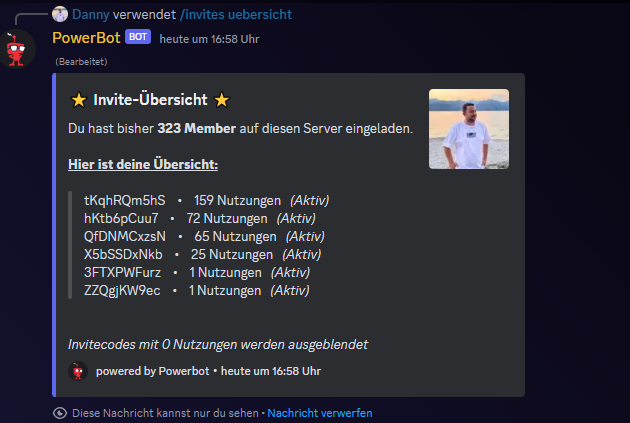
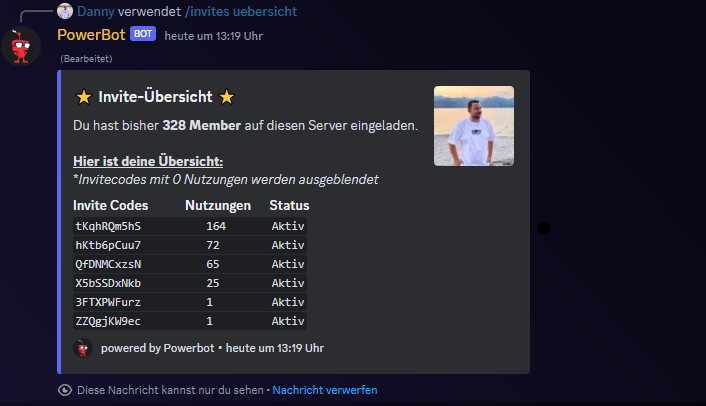
GITBOOK-34: No subject

Changed region(s): [[0.0603, 0.1478, 0.8444, 1.0], [0.0, 0.0, 0.4825, 0.1773]]

diff --git a/features/invite-system.md b/features/invite-system.md
@@ -1,0 +1,50 @@
+---
+description: Das ultimative Invite-System für dich als Server-Admin und deine User.
+---
+
+# Invite System
+
+Das Invite-System gibt dir einerseits die Information durch welchen Invite-Link der Member auf deinen Discord-Server gekommen ist. Andererseits kannst du bei deinen Membern einen ultimativen Wettbewerb auslösen. Ganz nach dem Motto: "Wer hat mehr Leute auf deinen Server geholt?"
+
+**Was macht das System:**
+
+* Im Dashboard findet man unter "Invite System -> Basiseinstellungen" den Punkt "Invite-Log". Dort wählt man einen Channel aus. Wer seine Member motivieren möchte, dass sie ihre Freunde einladen, sollte hier den selben Channel wie den "Welcome Channel" auswählen.\
+  \
+  Eine Nachricht mit "{member} wurde von {inviter} eingeladen. Einladungs-Count: ..." wird in den Invite-Log Channel geschickt. \
+  \
+  So kann es aussehen, wenn der "Invite-Log Channel" und "Welcome Channel" ident sind:
+
+<div data-full-width="true">
+
+<figure><img src="../.gitbook/assets/invite-welcomemessage.png" alt=""><figcaption></figcaption></figure>
+
+</div>
+
+* Joined ein Member auf deinen Server, schaut der Bot von wem der Invite-Code ist (Inviter) und ob der Member schon Mal durch diesen Invite-Code auf den Server eingeladen wurde. Ist der Member neu und hat den Invite-Code noch nicht benutzt, dann bekommt der "Inviter" 50XP gutgeschrieben.\
+
+*   Im Dashboard kann man auswählen, ob Inviter eine Nachricht bekommen sollen, wenn ihr Invite-Code benutzt wurde. Aktiviert man diese Option, sieht es so aus:\
+
+
+    <div data-full-width="true">
+
+    <figure><img src="../.gitbook/assets/invite-usermessage.png" alt=""><figcaption></figcaption></figure>
+
+    </div>
+* Per /invites uebersicht kann man sich seine aktiven Invite-Codes inkl. Zahl der Nutzungen anzeigen lassen:
+
+<div data-full-width="true">
+
+<figure><img src="../.gitbook/assets/invite-uebersicht.png" alt=""><figcaption></figcaption></figure>
+
+</div>
+
+*   Möchte man Invite-Codes vom Logging ausnehmen _(z.B. allgemeine Invite Codes, die vom Team erstellt wurden),_ kann man dies auch im Dashboard konfigurieren. Hier ein Beispiel:\
+
+
+    <div data-full-width="true">
+
+    <figure><img src="../.gitbook/assets/image (66).png" alt=""><figcaption></figcaption></figure>
+
+    </div>
+* Feature in Planung:
+  * Leaderboard

diff --git a/SUMMARY.md b/SUMMARY.md
@@ -21,7 +21,7 @@
 * [Umfrage System](features/umfrage-system.md)
 * [Anti-Raid](features/anti-raid.md)
 * [Auto Mod System](features/auto-mod-system.md)
-* [Invite Logging](features/invite-logging.md)
+* [Invite System](features/invite-system.md)
 * [CRM - Zeiterfassung](features/crm-zeiterfassung.md)
 * [Social Alerts](features/social-alerts.md)
 
